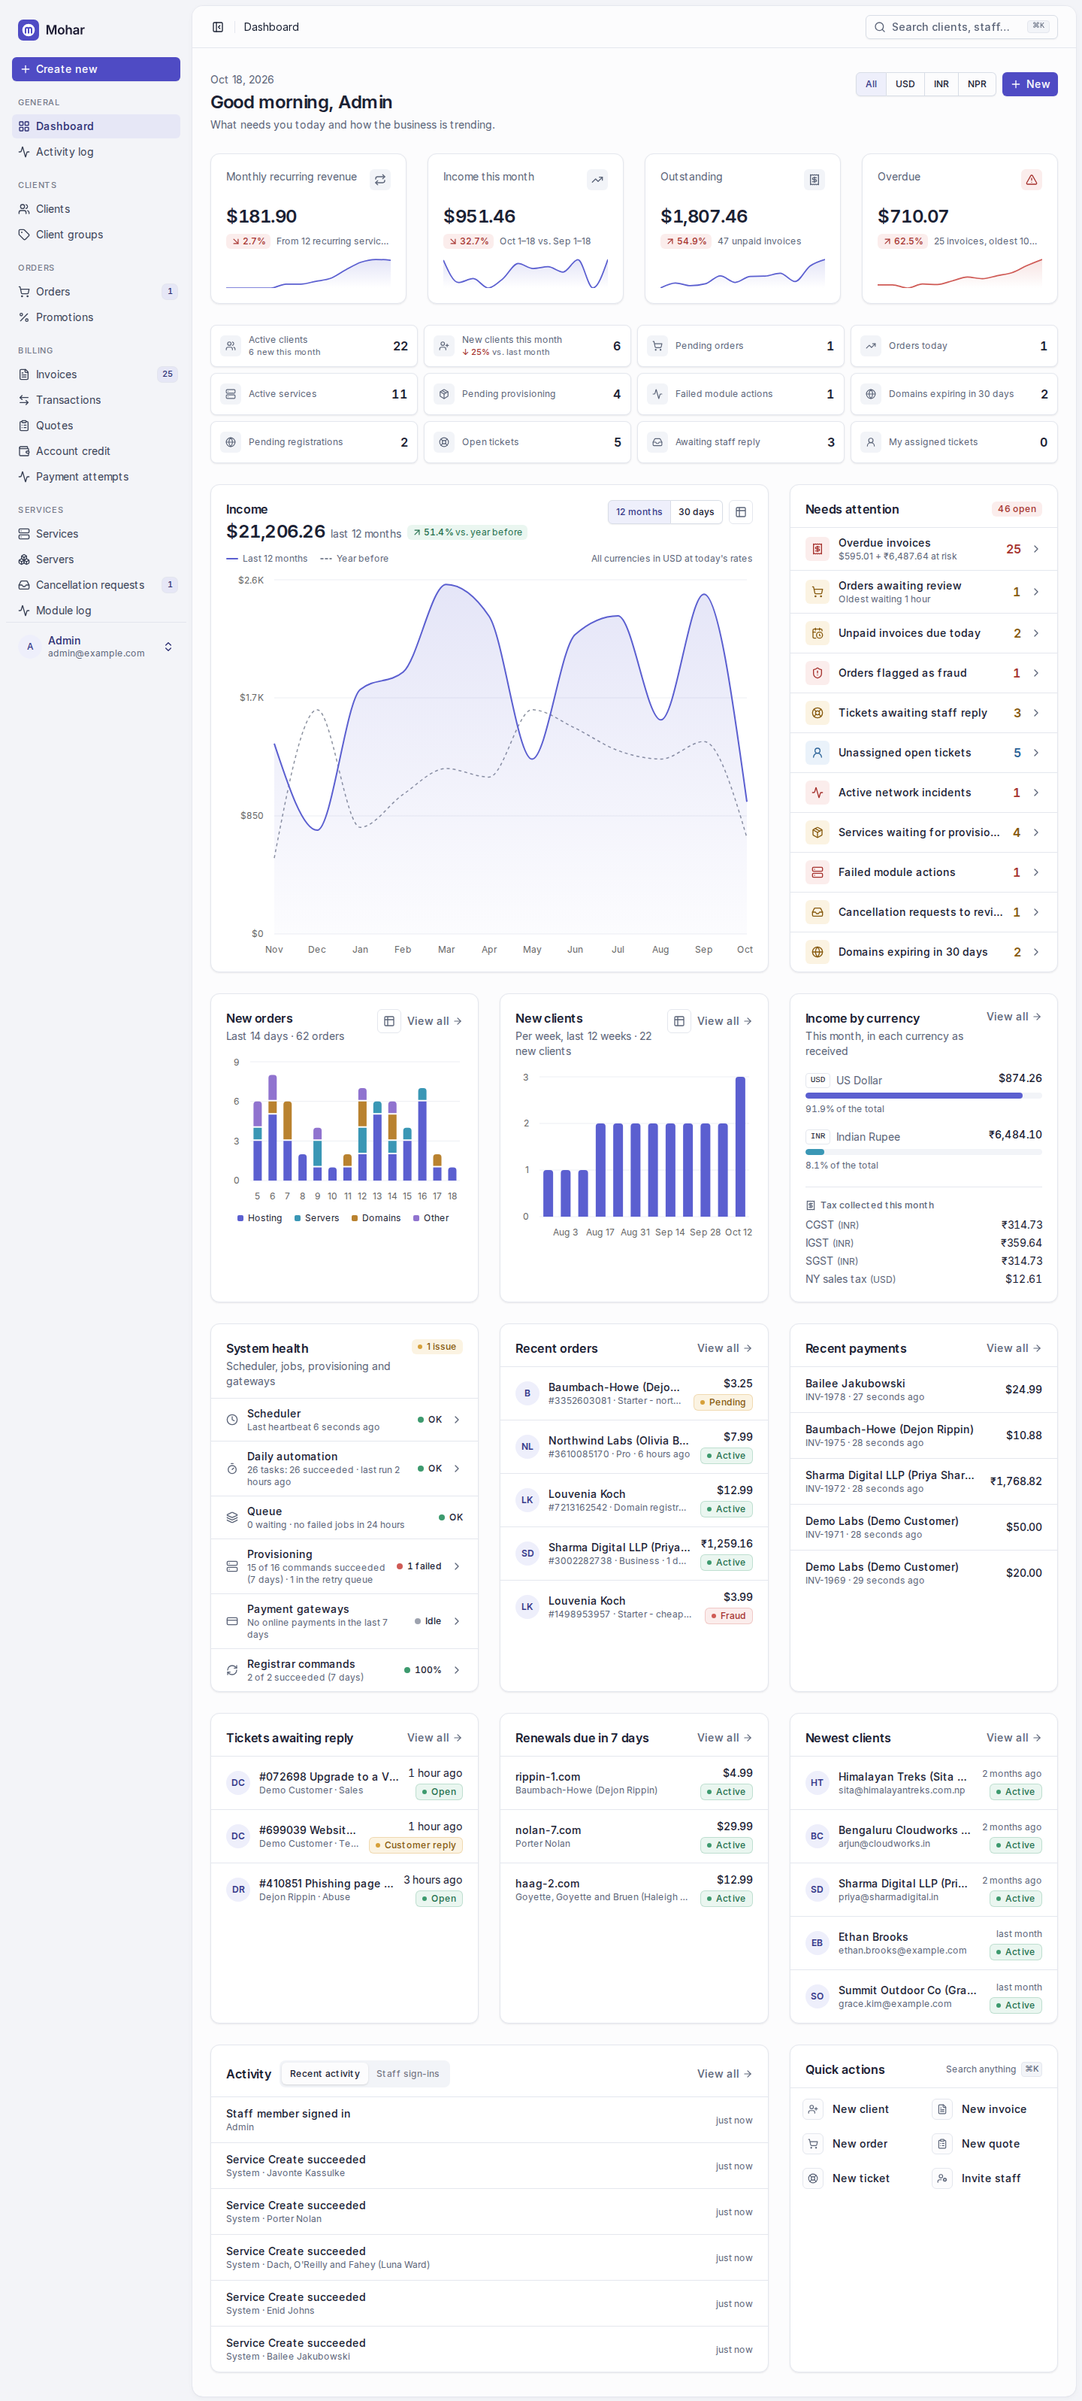
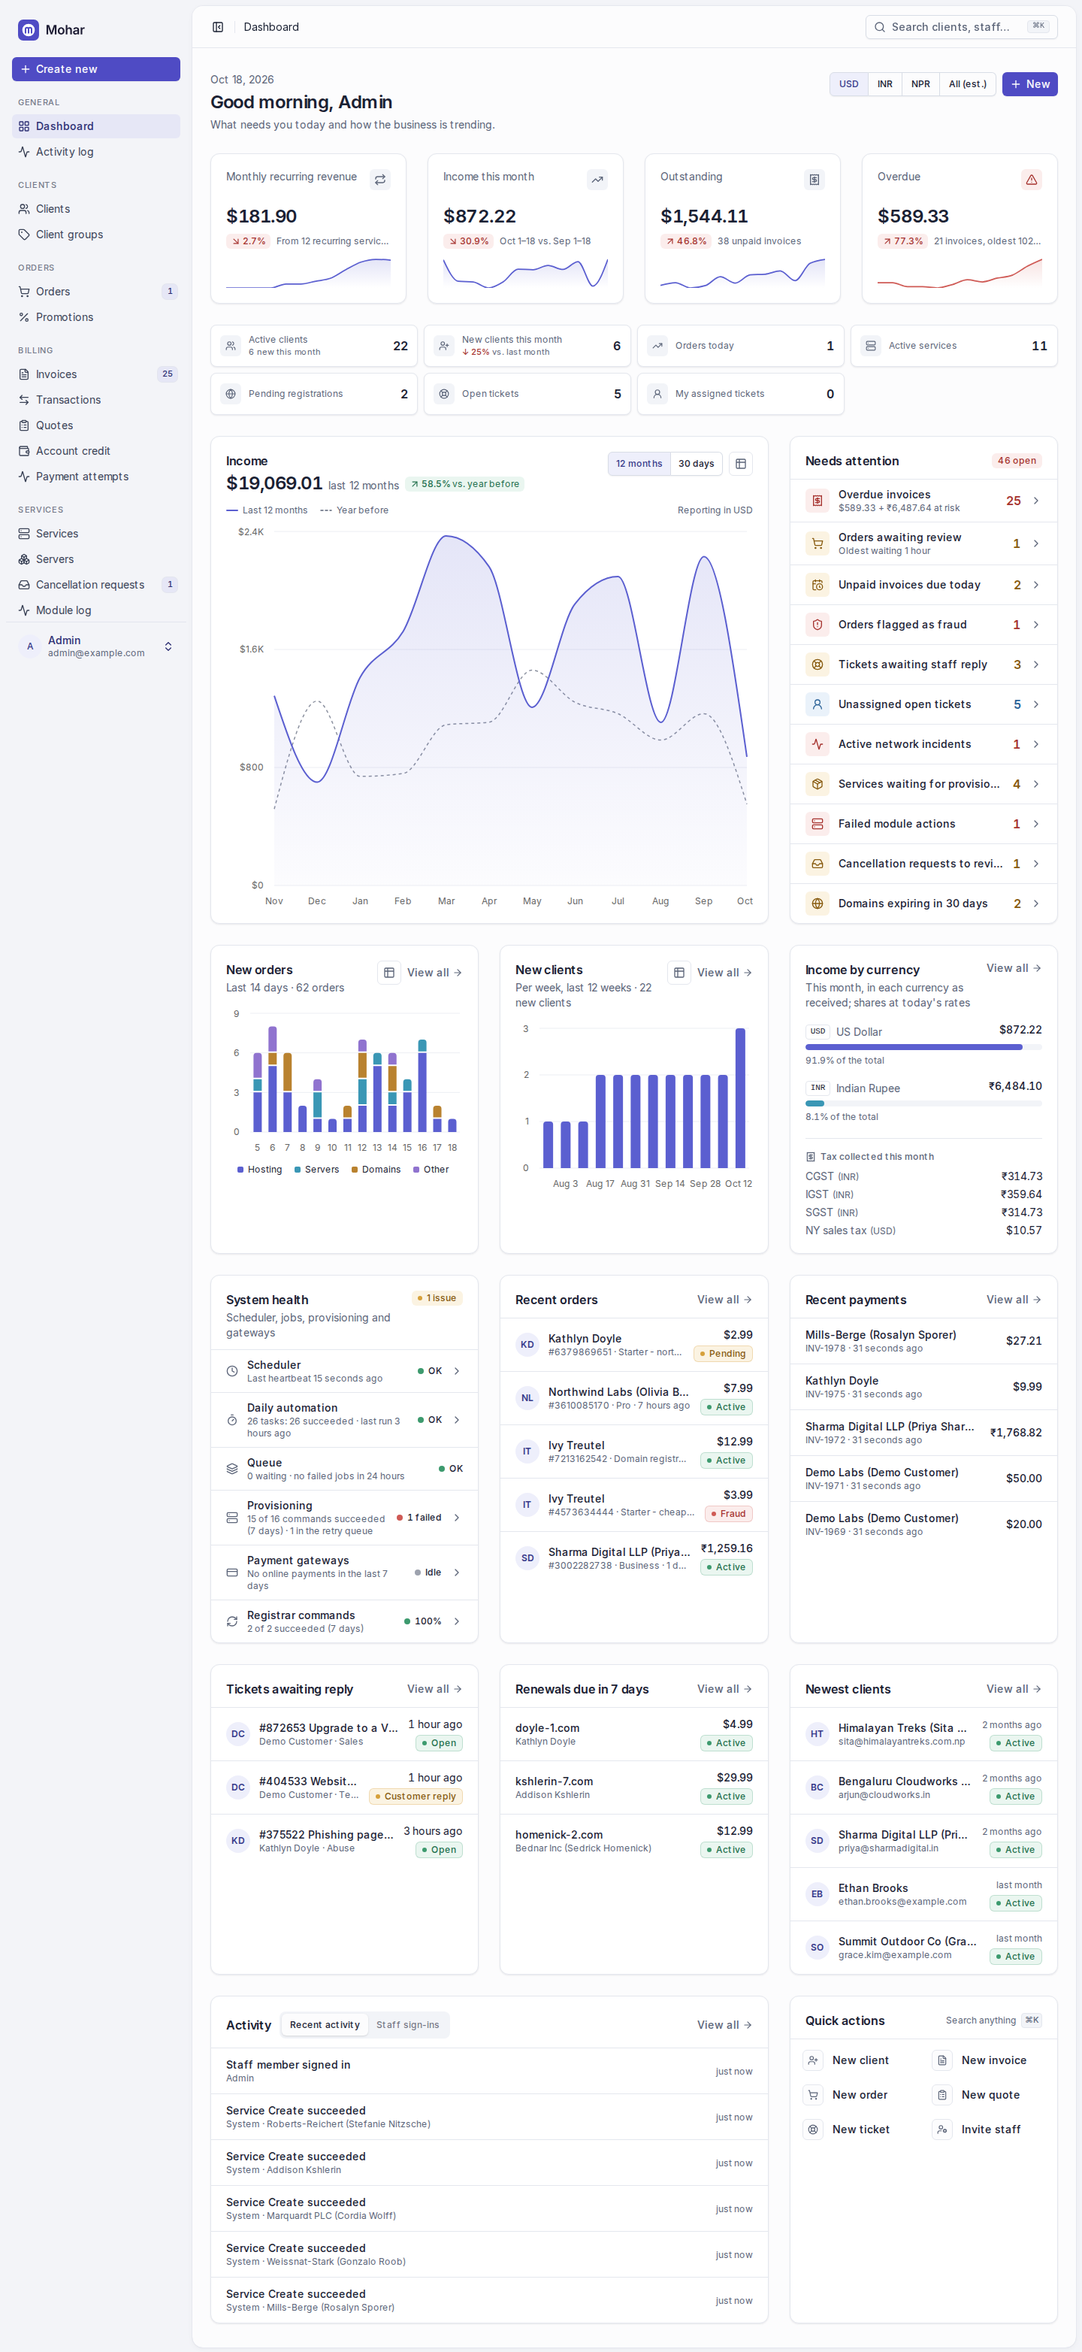
fix(dashboard): CTO decisions on NPR, reporting currency, counters and chart colours
- NPR prints as "Rs" (product standards) via a stopgap map in lib/money.ts until
  the Currencies workstream makes the configured prefix the single source.
- The reporting currency defaults to the default currency; "All (est.)" is an
  explicit estimate at today's rates (transactions store no rate to the default
  currency). Money widgets send a variant for every configured currency.
- Counters that duplicate a Needs attention row (mirrorsTodo) leave the strip.
- Chart palettes: Slate's grey becomes a desaturated blue-violet; Slate, Calm dark
  and Warm dark slots nudged so no adjacent pair fails the CVD or normal-vision checks.

diff --git a/billing/resources/js/components/app/dashboard/reporting-currency.tsx b/billing/resources/js/components/app/dashboard/reporting-currency.tsx
@@ -3,18 +3,22 @@ import type { ReactNode } from 'react';
 import { ToggleGroup, ToggleGroupItem } from '@/components/ui/toggle-group';
 import type { DashboardWidget } from './types';
 
-/** "all" = every currency converted to the default currency; otherwise one ISO code, unconverted. */
+/**
+ * One ISO code = that currency only, unconverted (the default view is the default currency). "all" = every
+ * currency converted to the default currency at today's rates: an explicit estimate, because transactions do not
+ * store the rate in force when they were paid.
+ */
 export const ALL_CURRENCIES = 'all';
 
-const STORAGE_KEY = 'dashboard.reporting-currency';
+const STORAGE_KEY = 'dashboard.reporting-currency.v2';
 
 const ReportingCurrencyContext = createContext<string>(ALL_CURRENCIES);
 
-function readStored(): string {
+function readStored(): string | null {
     try {
-        return window.localStorage.getItem(STORAGE_KEY) ?? ALL_CURRENCIES;
+        return window.localStorage.getItem(STORAGE_KEY);
     } catch {
-        return ALL_CURRENCIES;
+        return null;
     }
 }
 
@@ -73,7 +77,10 @@ export function useVariant<T extends DashboardWidget>(widget: T): T {
     return withVariant(widget, useReportingCurrency());
 }
 
-/** Holds the selection (remembered per browser) and renders the header switch through `children`. */
+/**
+ * Holds the selection (remembered per browser) and renders the header switch through `children`. Widgets list the
+ * default currency first, so `codes[0]` is the default view.
+ */
 export function ReportingCurrencyProvider({
     codes,
     children,
@@ -81,16 +88,17 @@ export function ReportingCurrencyProvider({
     codes: string[];
     children: (switcher: ReactNode, selected: string) => ReactNode;
 }) {
-    const [selected, setSelected] = useState<string>(ALL_CURRENCIES);
+    const fallback = codes[0] ?? ALL_CURRENCIES;
+    const [selected, setSelected] = useState<string | null>(null);
 
     useEffect(() => {
         setSelected(readStored());
     }, []);
 
     const active =
-        selected === ALL_CURRENCIES || codes.includes(selected)
+        selected === ALL_CURRENCIES || (selected && codes.includes(selected))
             ? selected
-            : ALL_CURRENCIES;
+            : fallback;
 
     const choose = (code: string) => {
         if (!code) {
@@ -116,13 +124,6 @@ export function ReportingCurrencyProvider({
                 onValueChange={choose}
                 aria-label="Reporting currency"
             >
-                <ToggleGroupItem
-                    value={ALL_CURRENCIES}
-                    className="px-3 text-xs"
-                    aria-label="All currencies"
-                >
-                    All
-                </ToggleGroupItem>
                 {codes.map((code) => (
                     <ToggleGroupItem
                         key={code}
@@ -132,6 +133,14 @@ export function ReportingCurrencyProvider({
                         {code}
                     </ToggleGroupItem>
                 ))}
+                <ToggleGroupItem
+                    value={ALL_CURRENCIES}
+                    className="px-3 text-xs"
+                    aria-label="All currencies, estimated at today's rates"
+                    title="All currencies converted at today's exchange rates (an estimate for past periods)"
+                >
+                    All (est.)
+                </ToggleGroupItem>
             </ToggleGroup>
         ) : null;
 

diff --git a/billing/resources/js/lib/money.ts b/billing/resources/js/lib/money.ts
@@ -103,10 +103,11 @@ export function localeForCurrency(currency: string): string {
 }
 
 /**
- * Symbols Intl does not use in our locales: Nepalese rupee prints as "NPR 1,200.00" in en-IN, while the
- * customary symbol (and the seeded currency prefix) is "रू".
+ * Stopgap until the Currencies workstream makes each currency's configured prefix the single source: Intl
+ * prints the Nepalese rupee as "NPR 1,200.00" in en-IN, while the owner's standard is "Rs 1,23,456.00".
+ * Delete this map (and withSymbol) when that lands.
  */
-const SYMBOLS: Record<string, string> = { NPR: 'रू' };
+const SYMBOLS: Record<string, string> = { NPR: 'Rs' };
 
 function withSymbol(formatted: string, code: string): string {
     const symbol = SYMBOLS[code];
@@ -142,7 +143,7 @@ export function formatMoney(
         : normalized;
 }
 
-/** Compact amounts for chart axes and dense summaries: "$48K", "₹12L" (en-IN), "रू 1.2L". */
+/** Compact amounts for chart axes and dense summaries: "$48K", "₹11.7L" (en-IN), "Rs 1.2L". */
 export function formatMoneyCompact(
     amountMinor: number,
     currency: string,

diff --git a/billing/resources/js/components/billing/__tests__/types.test.ts b/billing/resources/js/components/billing/__tests__/types.test.ts
@@ -34,14 +34,14 @@ describe('formatMoney default locale per currency', () => {
 });
 
 describe('formatMoney symbols and compact amounts', () => {
-    it('prints the Nepalese rupee as रू with lakh grouping', () => {
-        expect(formatMoney(78680000, 'NPR')).toBe('रू 7,86,800.00');
-        expect(formatMoney(-50000, 'NPR')).toBe('−रू 500.00');
+    it('prints the Nepalese rupee as Rs with lakh grouping', () => {
+        expect(formatMoney(78680000, 'NPR')).toBe('Rs 7,86,800.00');
+        expect(formatMoney(-50000, 'NPR')).toBe('−Rs 500.00');
     });
 
     it('compacts axis labels in each currency own grouping', () => {
         expect(formatMoneyCompact(4500000, 'USD')).toBe('$45K');
         expect(formatMoneyCompact(116720000, 'INR')).toBe('₹11.7L');
-        expect(formatMoneyCompact(78680000, 'NPR')).toBe('रू 7.9L');
+        expect(formatMoneyCompact(78680000, 'NPR')).toBe('Rs 7.9L');
     });
 });

diff --git a/billing/resources/js/components/app/dashboard-widgets.tsx b/billing/resources/js/components/app/dashboard-widgets.tsx
@@ -186,7 +186,7 @@ function StatStrip({
 
     return (
         <section aria-label="Counters" className={className}>
-            <ul className="grid grid-cols-2 gap-2 sm:grid-cols-3 lg:grid-cols-4 2xl:grid-cols-6">
+            <ul className="grid grid-cols-2 gap-2 sm:grid-cols-3 lg:grid-cols-4">
                 {widgets.map((widget) => (
                     <li key={widget.key} className="grid min-w-0">
                         <StatTile widget={widget} />
@@ -258,7 +258,8 @@ export function DashboardWidgets({
 }) {
     const all = [...widgets, ...(deferred ?? [])];
     const stats = all.filter(
-        (widget): widget is StatWidget => widget.type === 'stat',
+        (widget): widget is StatWidget =>
+            widget.type === 'stat' && !widget.mirrorsTodo,
     );
     const charts = all.filter(
         (widget): widget is ChartWidget => widget.type === 'chart',

diff --git a/billing/resources/js/components/app/dashboard/chart-card.tsx b/billing/resources/js/components/app/dashboard/chart-card.tsx
@@ -211,7 +211,7 @@ export function ChartCard({
                     {widget.currency && (
                         <span className="text-xs text-muted-foreground">
                             {consolidated
-                                ? `All currencies in ${widget.currency} at today's rates`
+                                ? `All currencies in ${widget.currency}, estimated at today's rates`
                                 : `Reporting in ${widget.currency}`}
                         </span>
                     )}

diff --git a/billing/resources/js/components/app/dashboard/types.ts b/billing/resources/js/components/app/dashboard/types.ts
@@ -29,6 +29,8 @@ export type StatWidget = WidgetBase & {
     trend?: StatTrend;
     sparkline?: number[];
     tone?: 'default' | 'danger' | 'warning';
+    /** Same figure as the Needs attention item with this key: shown there only, not in the counter strip. */
+    mirrorsTodo?: boolean;
     variants?: Variants<StatWidget>;
 };
 

diff --git a/billing/app/Modules/Billing/Support/BillingDashboard.php b/billing/app/Modules/Billing/Support/BillingDashboard.php
@@ -32,6 +32,9 @@ class BillingDashboard
     /** Transaction types that make up net income (refunds and chargebacks are negative). */
     private const INCOME_TYPES = [TransactionType::Payment, TransactionType::ManualIncome, TransactionType::Refund, TransactionType::Chargeback];
 
+    /** A currency with no open or recently closed invoices. */
+    private const EMPTY_BOOK = ['outstanding' => 0, 'outstanding_count' => 0, 'overdue' => 0, 'overdue_count' => 0, 'oldest_due' => null, 'invoices' => []];
+
     /** Weekly points on the KPI sparklines. */
     private const WEEKS = 12;
 
@@ -133,6 +136,7 @@ class BillingDashboard
             $this->consolidateBooks($data['receivables']),
             $view,
             ['href' => route('admin.billing.invoices.index', ['status' => 'unpaid']), 'icon' => 'Receipt'],
+            self::EMPTY_BOOK,
         );
     }
 
@@ -164,6 +168,7 @@ class BillingDashboard
                 $this->consolidateBooks($data['receivables']),
                 $view,
                 ['href' => route('admin.billing.invoices.index', ['status' => 'overdue']), 'icon' => 'AlertTriangle', 'tone' => 'danger'],
+                self::EMPTY_BOOK,
             ),
             'count' => array_sum(array_column($data['receivables'], 'overdue_count')),
         ];
@@ -196,7 +201,7 @@ class BillingDashboard
             ];
         };
 
-        $codes = $rollup->order(array_keys($data['income']));
+        $codes = $rollup->codes(array_keys($data['income']));
         $consolidated = $this->consolidateDaily($data['income']);
 
         return [
@@ -206,7 +211,7 @@ class BillingDashboard
             'href' => route('admin.billing.transactions.index'),
             'empty' => 'No income recorded yet. Payments you record appear here.',
             ...$view($consolidated, $rollup->defaultCode()),
-            'variants' => array_combine($codes, array_map(fn (string $code): array => $view($data['income'][$code], $code), $codes)) ?: (object) [],
+            'variants' => array_combine($codes, array_map(fn (string $code): array => $view($data['income'][$code] ?? [], $code), $codes)) ?: (object) [],
         ];
     }
 
@@ -236,7 +241,7 @@ class BillingDashboard
 
         return [
             'title' => 'Income by currency',
-            'description' => 'This month, in each currency as received',
+            'description' => 'This month, in each currency as received; shares at today\'s rates',
             'href' => route('admin.billing.transactions.index'),
             'empty' => 'No income this month yet.',
             'rows' => array_map(fn (string $code): array => [
@@ -343,10 +348,10 @@ class BillingDashboard
      * @param  array<string, mixed>  $extra
      * @return array<string, mixed>
      */
-    private function moneyCard(string $label, array $byCurrency, mixed $consolidated, \Closure $view, array $extra): array
+    private function moneyCard(string $label, array $byCurrency, mixed $consolidated, \Closure $view, array $extra, mixed $empty = []): array
     {
         $rollup = $this->rollup();
-        $codes = $rollup->order(array_keys($byCurrency));
+        $codes = $rollup->codes(array_keys($byCurrency));
         $card = function (array $view, string $currency): array {
             $amount = $view['amount'];
             unset($view['amount']);
@@ -360,7 +365,7 @@ class BillingDashboard
         $variants = [];
 
         foreach ($codes as $code) {
-            $variants[$code] = $card($view($byCurrency[$code]), $code);
+            $variants[$code] = $card($view($byCurrency[$code] ?? $empty), $code);
         }
 
         return [
@@ -396,7 +401,7 @@ class BillingDashboard
     private function consolidateBooks(array $books): array
     {
         $rollup = $this->rollup();
-        $book = ['outstanding' => 0, 'outstanding_count' => 0, 'overdue' => 0, 'overdue_count' => 0, 'oldest_due' => null, 'invoices' => []];
+        $book = self::EMPTY_BOOK;
 
         foreach ($books as $code => $single) {
             $book['outstanding'] += $rollup->toDefault($single['outstanding'], $code) ?? 0;
@@ -618,7 +623,7 @@ class BillingDashboard
             ->each(function (object $row) use (&$books, $payable, $today): void {
                 $code = (string) $row->currency;
                 $isPayable = in_array($row->status, $payable, true);
-                $books[$code] ??= ['outstanding' => 0, 'outstanding_count' => 0, 'overdue' => 0, 'overdue_count' => 0, 'oldest_due' => null, 'invoices' => []];
+                $books[$code] ??= self::EMPTY_BOOK;
                 $dueDate = $row->due_date === null ? null : substr((string) $row->due_date, 0, 10);
                 $paidAt = $row->paid_at === null ? null : substr((string) $row->paid_at, 0, 10);
                 $cancelledAt = $row->cancelled_at === null ? null : substr((string) $row->cancelled_at, 0, 10);

diff --git a/billing/app/Support/Dashboard/Dashboard.php b/billing/app/Support/Dashboard/Dashboard.php
@@ -12,7 +12,8 @@ use Closure;
  * Stat card (shortcut). Optional: 'money' => ['amount', 'currency'], 'hint', 'trend' => ['value' => '12%', 'direction' =>
  * 'up'|'down'|'flat', 'upIsGood' => bool], 'sparkline' => int[] (12 points), 'tone' => 'default'|'warning'|'danger':
  *   $dashboard->card('admin', 'billing.overdue', fn ($user) => ['label' => 'Overdue', 'value' => 3, 'href' => ..., 'icon' => 'Receipt'], 'billing.invoices.view');
- * The first four stat cards by order are the dashboard's primary KPIs; the rest form the counter strip.
+ * The first four stat cards by order are the dashboard's primary KPIs; the rest form the counter strip. A card that is the
+ * same figure as a to-do with the same key sets 'mirrorsTodo' => true: the dashboard then shows it once, in Needs attention.
  *
  * Other widgets — type + payload shape:
  *   'list'  => ['title' => 'Recent orders', 'items' => [['title', 'subtitle'?, 'href'?, 'meta'?, 'money'?, 'status'?]], 'href'? (view all),

diff --git a/billing/app/Modules/Services/ServicesServiceProvider.php b/billing/app/Modules/Services/ServicesServiceProvider.php
@@ -133,6 +133,7 @@ class ServicesServiceProvider extends ModuleServiceProvider
             'value' => Service::query()->where('status', ServiceStatus::Pending->value)->count(),
             'href' => route('admin.services.index', ['status' => 'pending']),
             'icon' => 'Package',
+            'mirrorsTodo' => true,
         ], 'services.services.view', 31);
 
         $dashboard->card('admin', 'services.failed', fn (?User $user): array => [
@@ -140,6 +141,7 @@ class ServicesServiceProvider extends ModuleServiceProvider
             'value' => ModuleQueueItem::query()->where('status', QueueStatus::Open->value)->count(),
             'href' => route('admin.services.module-log.index', ['tab' => 'queue']),
             'icon' => 'Activity',
+            'mirrorsTodo' => true,
         ], 'services.module_log.view', 32);
 
         $dashboard->todo('admin', 'services.pending', fn (?User $user): array => [

diff --git a/billing/tests/Feature/Billing/DashboardWidgetsTest.php b/billing/tests/Feature/Billing/DashboardWidgetsTest.php
@@ -128,3 +128,14 @@ test('the gateway health check flags payments waiting for review', function () {
 
     expect($check())->toMatchArray(['value' => '1 to review', 'tone' => 'danger']);
 });
+
+test('money widgets carry a variant for each configured currency, empty ones included', function () {
+    payInvoice(issueInvoice($this->inr, [840_000]), 840_000);
+
+    $widgets = billingWidgets();
+
+    expect(array_keys($widgets['billing.income']['variants']))->toBe(['USD', 'INR'])
+        ->and($widgets['billing.income']['variants']['USD']['money'])->toBe(['amount' => 0, 'currency' => 'USD'])
+        ->and($widgets['billing.unpaid']['variants']['USD'])->toMatchArray(['money' => ['amount' => 0, 'currency' => 'USD'], 'hint' => 'No unpaid invoices'])
+        ->and($widgets['billing.overdue']['variants']['INR']['hint'])->toBe('Nothing overdue');
+});

diff --git a/billing/tests/Feature/Services/ServicesDashboardTest.php b/billing/tests/Feature/Services/ServicesDashboardTest.php
@@ -69,3 +69,13 @@ test('provisioning health reports the 7-day success rate and open failures', fun
 
     expect($check)->toMatchArray(['value' => '98%', 'tone' => 'success', 'detail' => '49 of 50 commands succeeded (7 days)']);
 });
+
+test('MRR offers every configured currency, so the default-currency view exists without activity in it', function () {
+    Service::factory()->create(['currency' => 'INR', 'recurring_amount' => 84_000]);
+
+    $card = mrrCard();
+
+    expect(array_keys($card['variants']))->toBe(['USD', 'INR'])
+        ->and($card['variants']['USD'])->toMatchArray(['money' => ['amount' => 0, 'currency' => 'USD'], 'hint' => 'No recurring services'])
+        ->and($card['variants']['INR']['money'])->toBe(['amount' => 84_000, 'currency' => 'INR']);
+});

diff --git a/billing/app/Modules/Services/Support/ServicesDashboard.php b/billing/app/Modules/Services/Support/ServicesDashboard.php
@@ -93,11 +93,11 @@ class ServicesDashboard
             'hint' => trans_choice('{0} No recurring services|{1} From 1 recurring service|[2,*] From :count recurring services', $services),
             ...array_filter(['trend' => Trend::percent((int) end($points), $before)]),
         ];
-        $codes = $rollup->order(array_keys($series));
+        $codes = $rollup->codes(array_keys($series));
         $variants = [];
 
         foreach ($codes as $code) {
-            $variants[$code] = $card($series[$code], $previous[$code], $count[$code], $code);
+            $variants[$code] = $card($series[$code] ?? array_fill(0, count($points), 0), $previous[$code] ?? 0, $count[$code] ?? 0, $code);
         }
 
         return [
